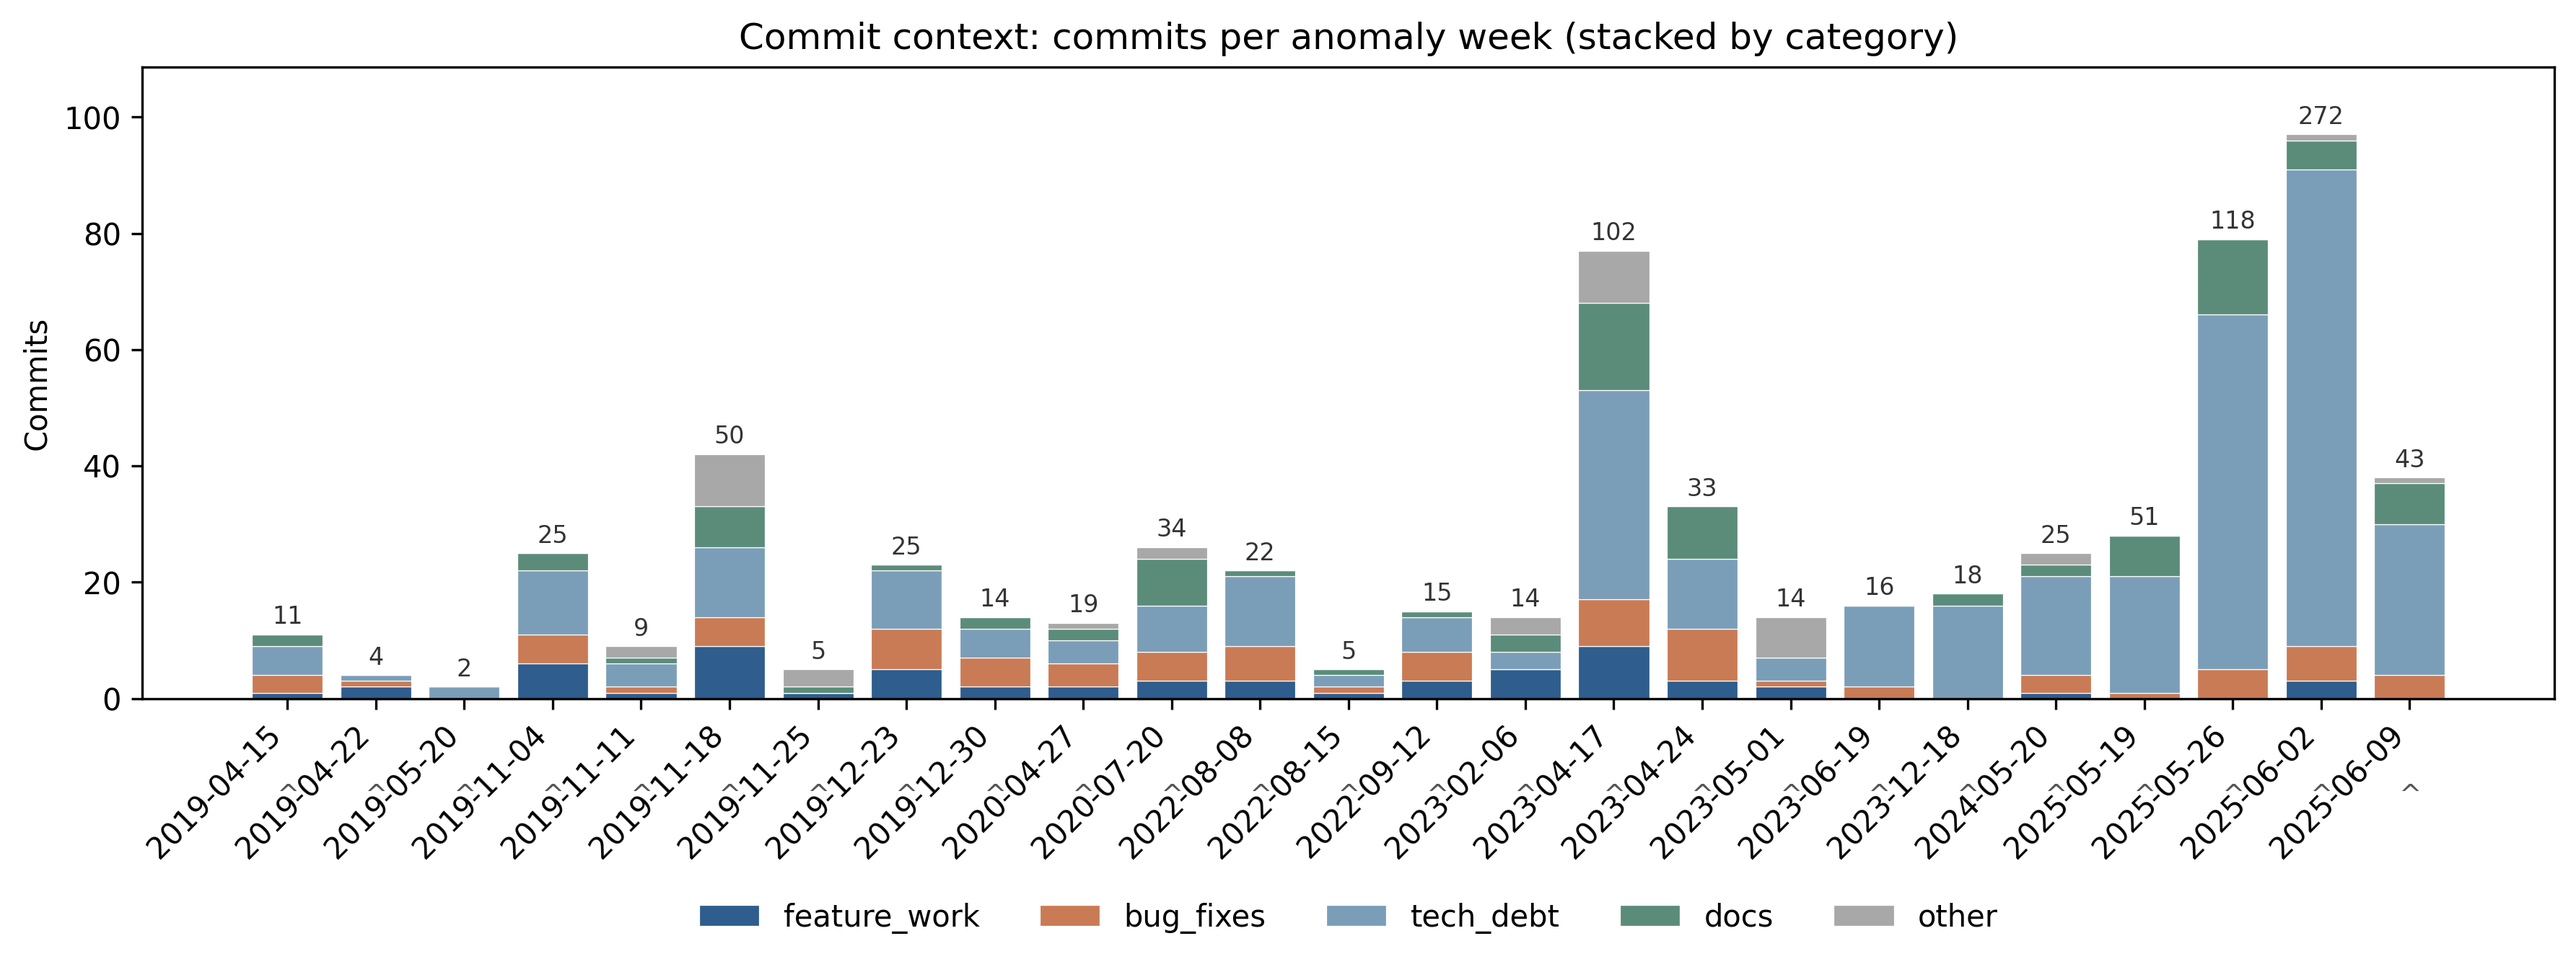
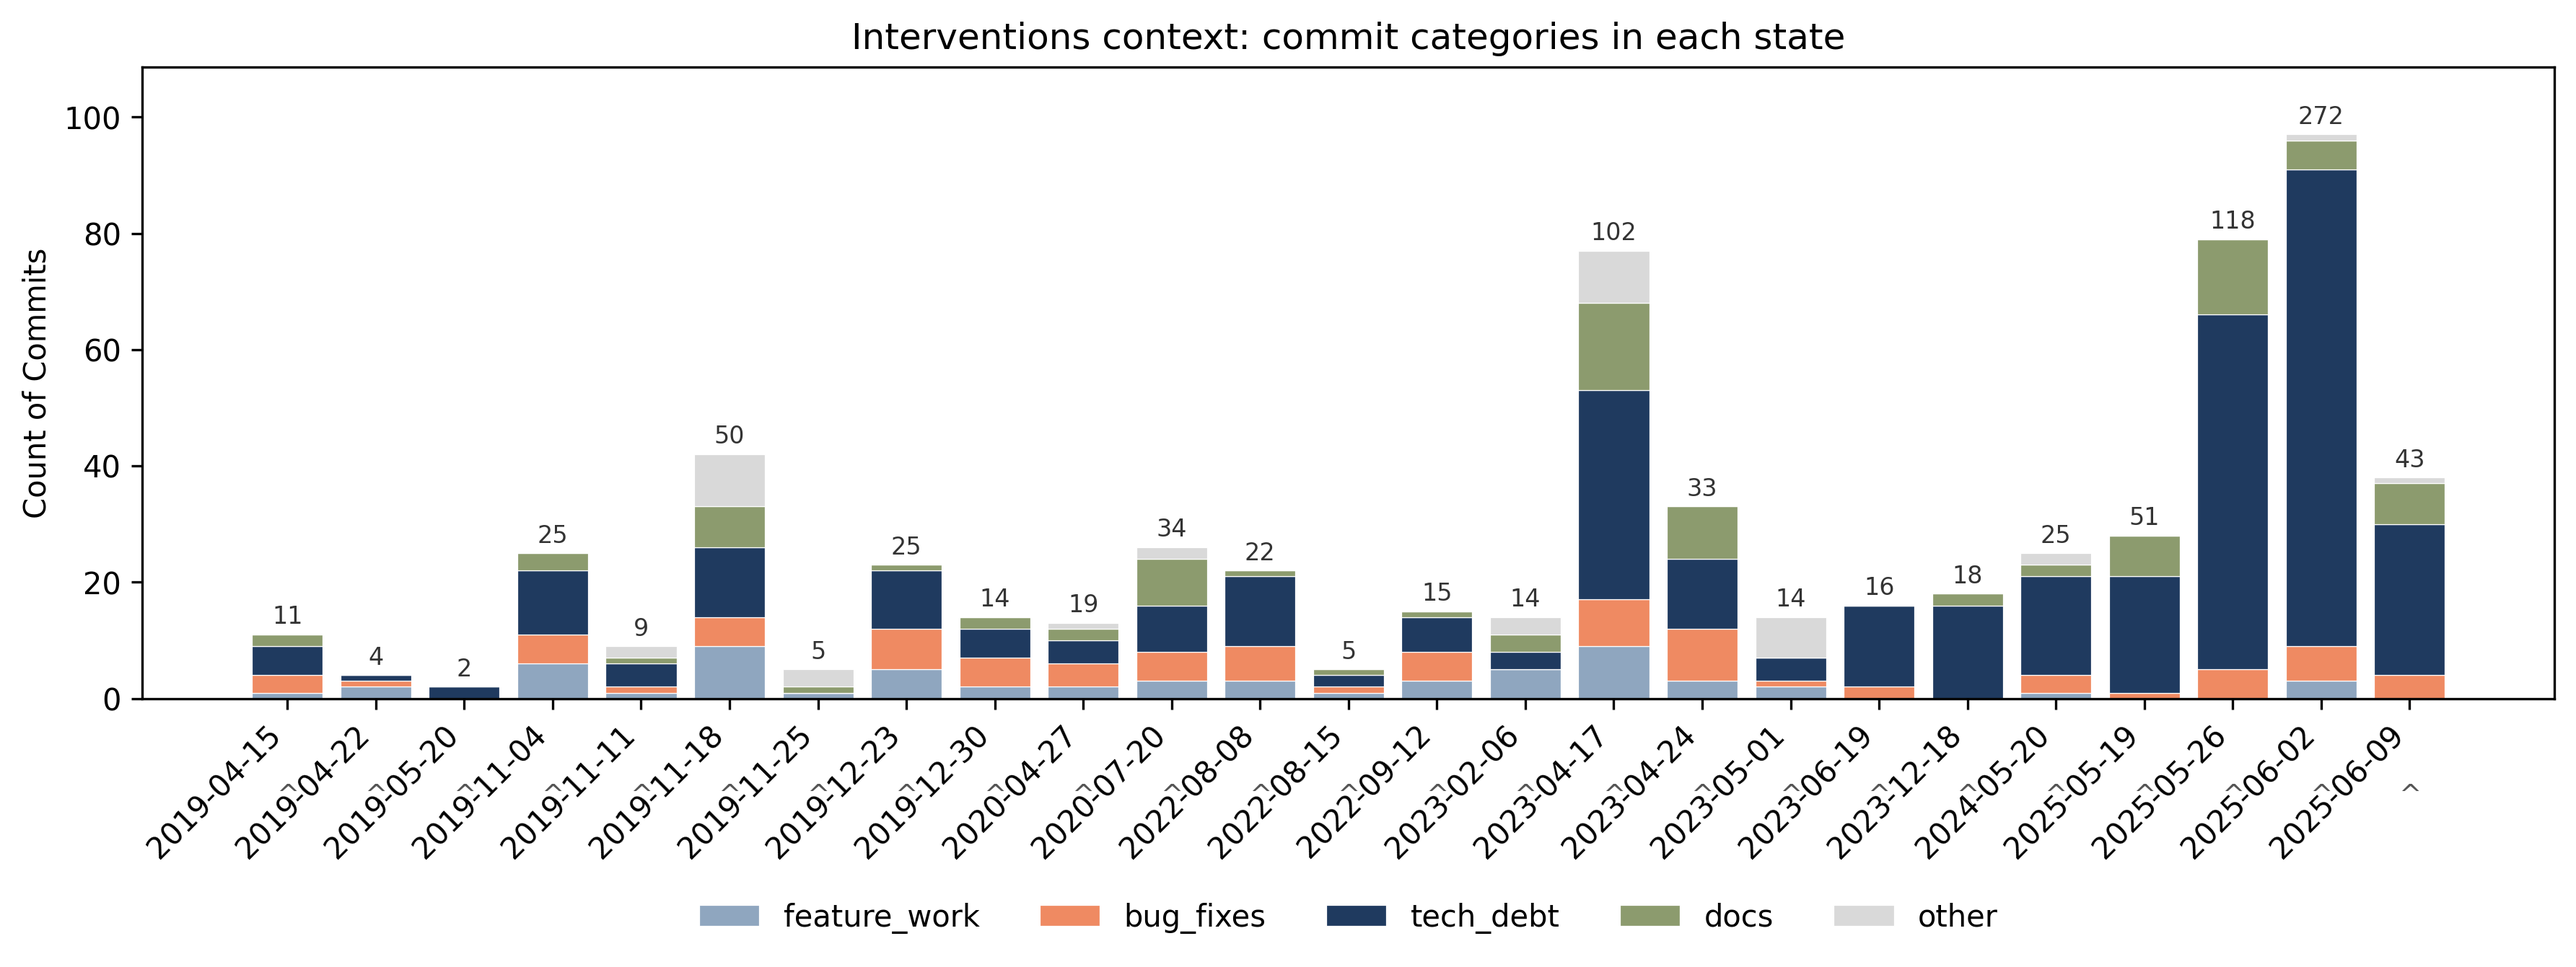
change color of commit fcategories figure

diff --git a/functions/config.py b/functions/config.py
@@ -38,48 +38,7 @@ FIGURES_DIR = RESULTS_FIGURES
 
 def save_figure(fig, figures_dir, stem, dpi=300):
     """Save figure as both PNG and PDF at the given dpi."""
-    # #region agent log
-    import json as _json, time as _time
-    _log_path = Path(__file__).resolve().parent.parent / "debug-2650fc.log"
-    def _dbg(hypothesis_id, message, data, run_id="pre-fix"):
-        with open(_log_path, "a", encoding="utf-8") as _f:
-            _f.write(_json.dumps({
-                "sessionId": "2650fc", "runId": run_id, "hypothesisId": hypothesis_id,
-                "location": "config.py:save_figure", "message": message, "data": data,
-                "timestamp": int(_time.time() * 1000),
-            }) + "\n")
-    # #endregion
     figures_dir = Path(figures_dir)
     figures_dir.mkdir(parents=True, exist_ok=True)
-    # #region agent log
-    _dbg("A", "save_figure entered", {
-        "stem": stem, "dpi": dpi, "figures_dir": str(figures_dir.resolve()),
-        "expected_root": str(RESULTS_FIGURES.resolve()),
-        "same_as_RESULTS_FIGURES": str(figures_dir.resolve()) == str(RESULTS_FIGURES.resolve()),
-    })
-    # #endregion
     for ext in (".png", ".pdf"):
-        out = figures_dir / f"{stem}{ext}"
-        try:
-            fig.savefig(out, dpi=dpi, bbox_inches="tight")
-            # #region agent log
-            _dbg("B", "savefig ok", {
-                "ext": ext, "path": str(out.resolve()),
-                "exists": out.exists(), "size": out.stat().st_size if out.exists() else None,
-            })
-            # #endregion
-        except Exception as e:
-            # #region agent log
-            _dbg("B", "savefig failed", {
-                "ext": ext, "path": str(out), "error_type": type(e).__name__, "error": str(e),
-            })
-            # #endregion
-            raise
-    # #region agent log
-    png_p = figures_dir / f"{stem}.png"
-    pdf_p = figures_dir / f"{stem}.pdf"
-    _dbg("D", "save_figure done", {
-        "stem": stem, "png_exists": png_p.exists(), "pdf_exists": pdf_p.exists(),
-        "dir_listing_pdfs": [p.name for p in figures_dir.glob(f"{stem}.*")],
-    })
-    # #endregion
+        fig.savefig(figures_dir / f"{stem}{ext}", dpi=dpi, bbox_inches="tight")

diff --git a/functions/plotting_anomaly.py b/functions/plotting_anomaly.py
@@ -434,11 +434,11 @@ def plot_commit_category_stack(commit_context, commit_typeclass_per_week, figure
     figures_dir.mkdir(parents=True, exist_ok=True)
     FIGURES_DIR = figures_dir
     CATEGORY_COLORS = {
-        "feature_work": "#2E5D8E",
-        "bug_fixes":    "#C97B55",
-        "tech_debt":    "#7B9EB8",
-        "docs":         "#5B8C7A",
-        "other":        "#A8A8A8",
+        "feature_work": "#8FA6BF",
+        "bug_fixes":    "#EF8A62",
+        "tech_debt":    "#1F3A5F",
+        "docs":         "#8C9B6E",
+        "other":        "#D9D9D9",
     }
 
     cat_count_cols = [f"cat_{c}_count" for c in CATEGORIES]
@@ -485,8 +485,8 @@ def plot_commit_category_stack(commit_context, commit_typeclass_per_week, figure
             )
 
     ax.set_ylim(0, ymax * 1.12 if ymax > 0 else 1)
-    ax.set_ylabel("Commits")
-    ax.set_title("Commit context: commits per anomaly week (stacked by category)")
+    ax.set_ylabel("Count of Commits")
+    ax.set_title("Interventions context: commit categories in each state")
     ax.tick_params(axis="x", rotation=45)
     for lbl in ax.get_xticklabels():
         lbl.set_ha("right")
